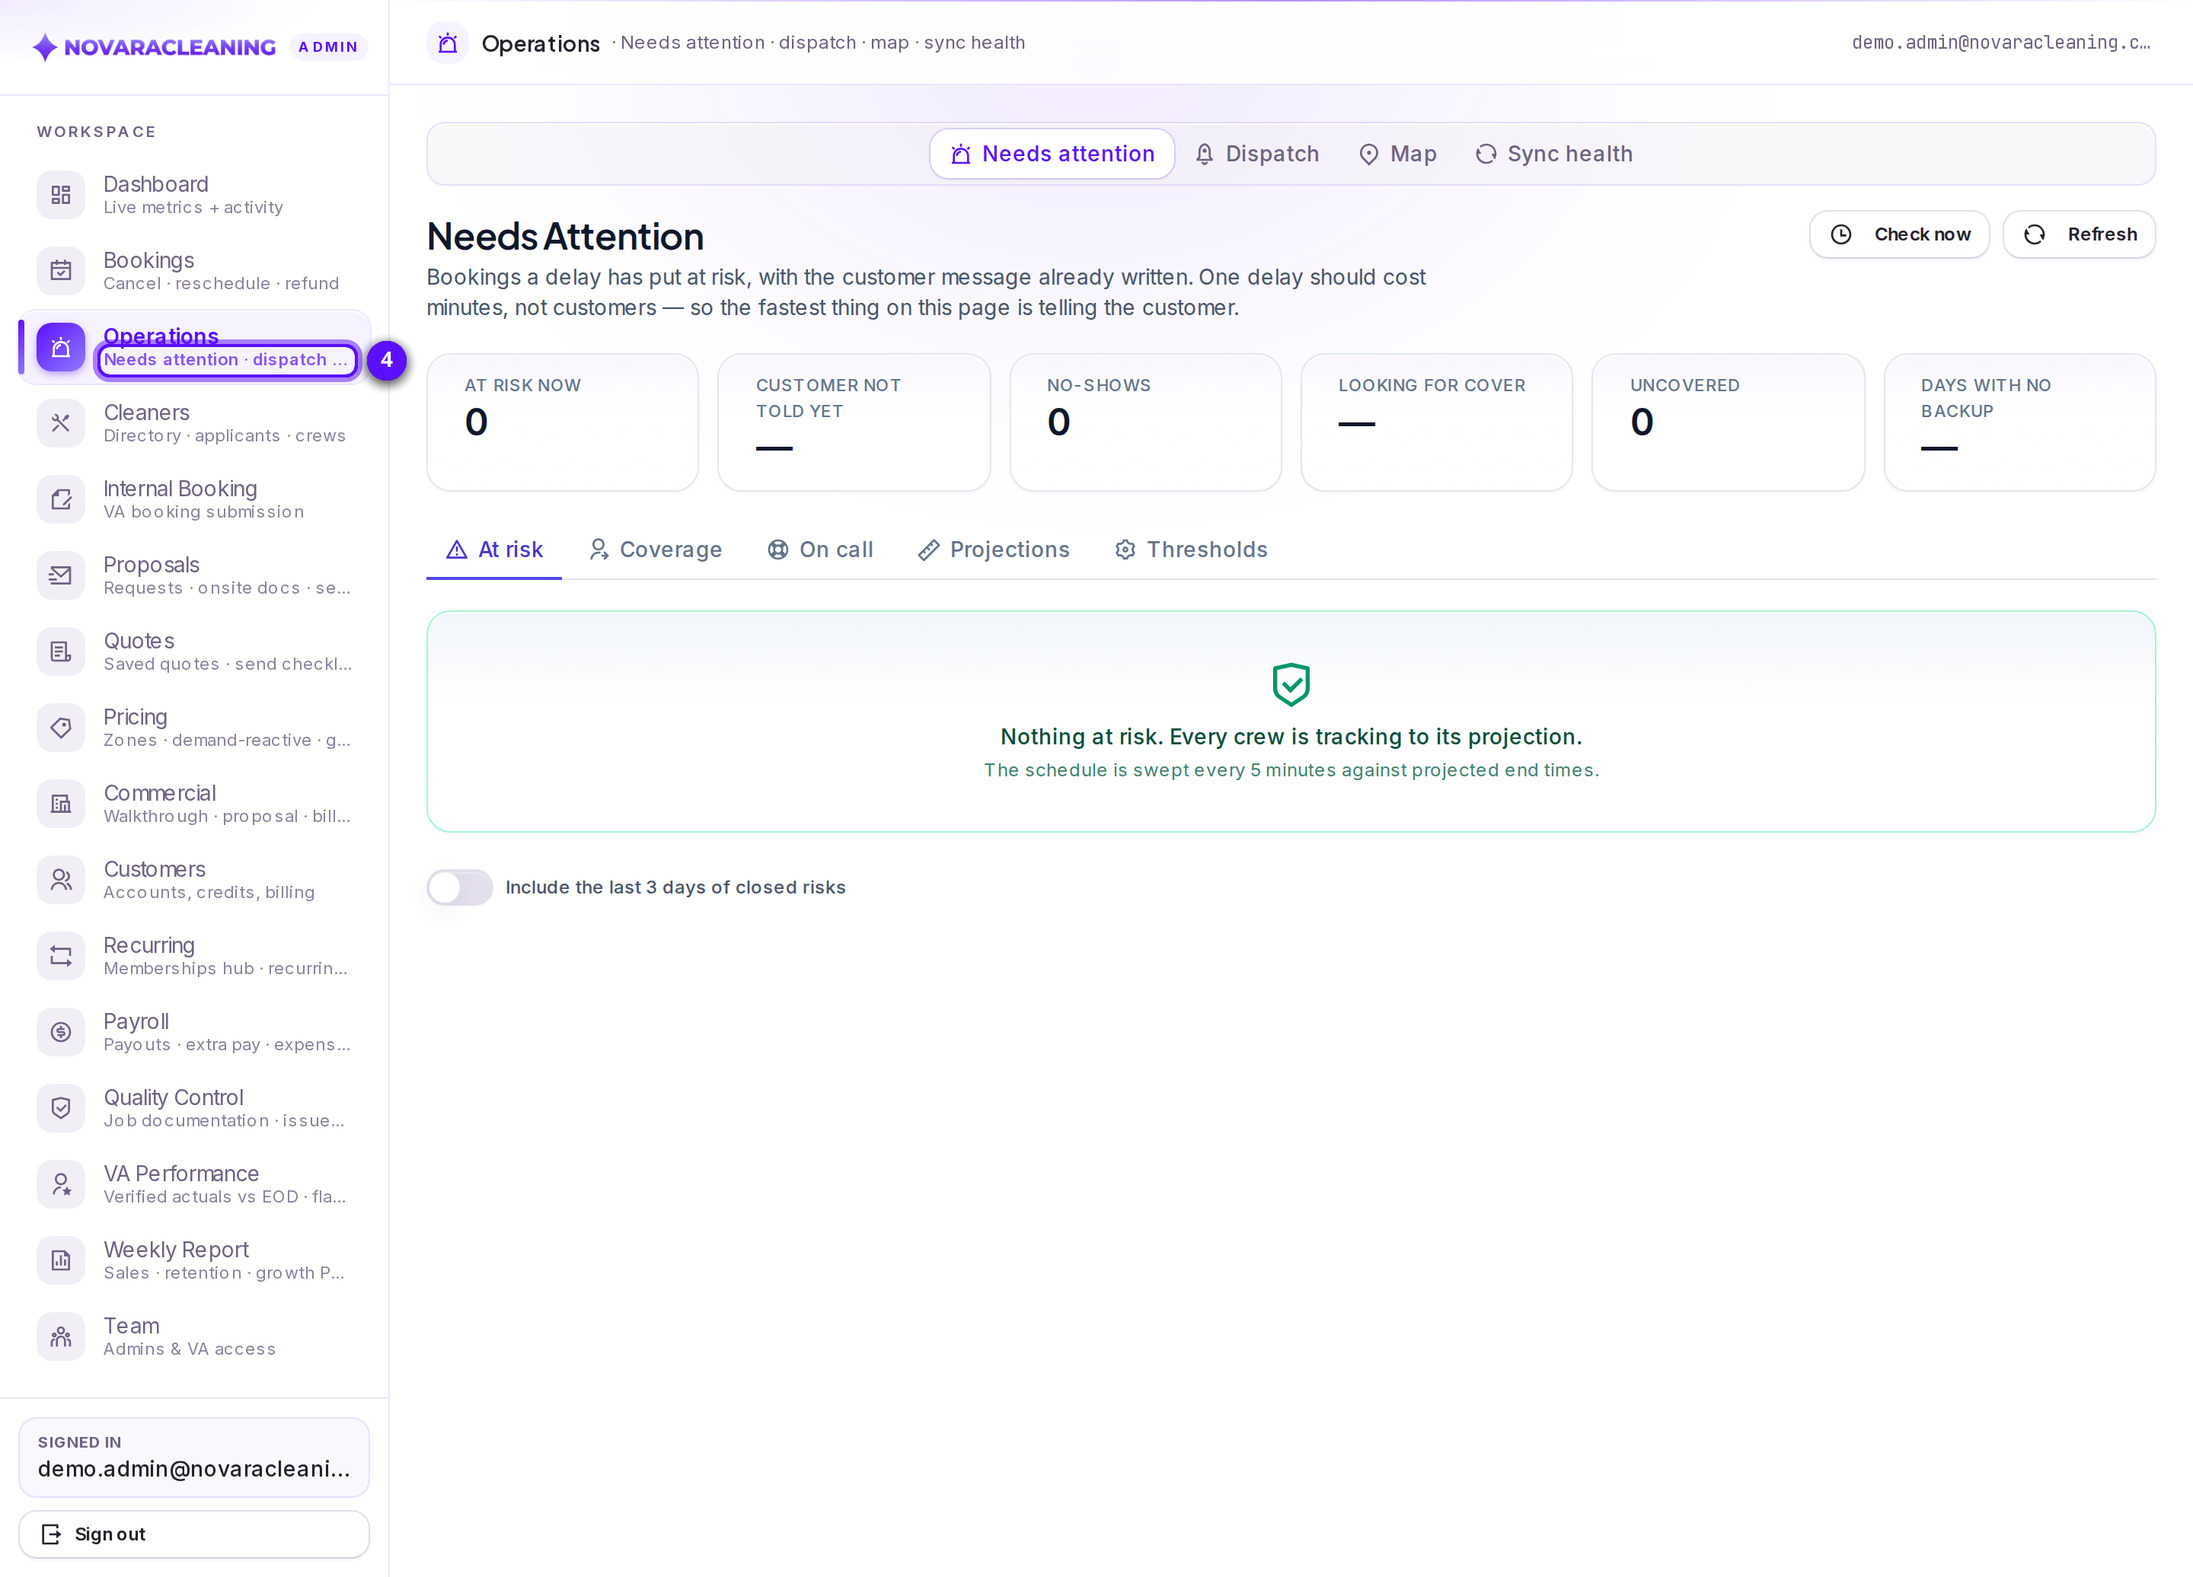
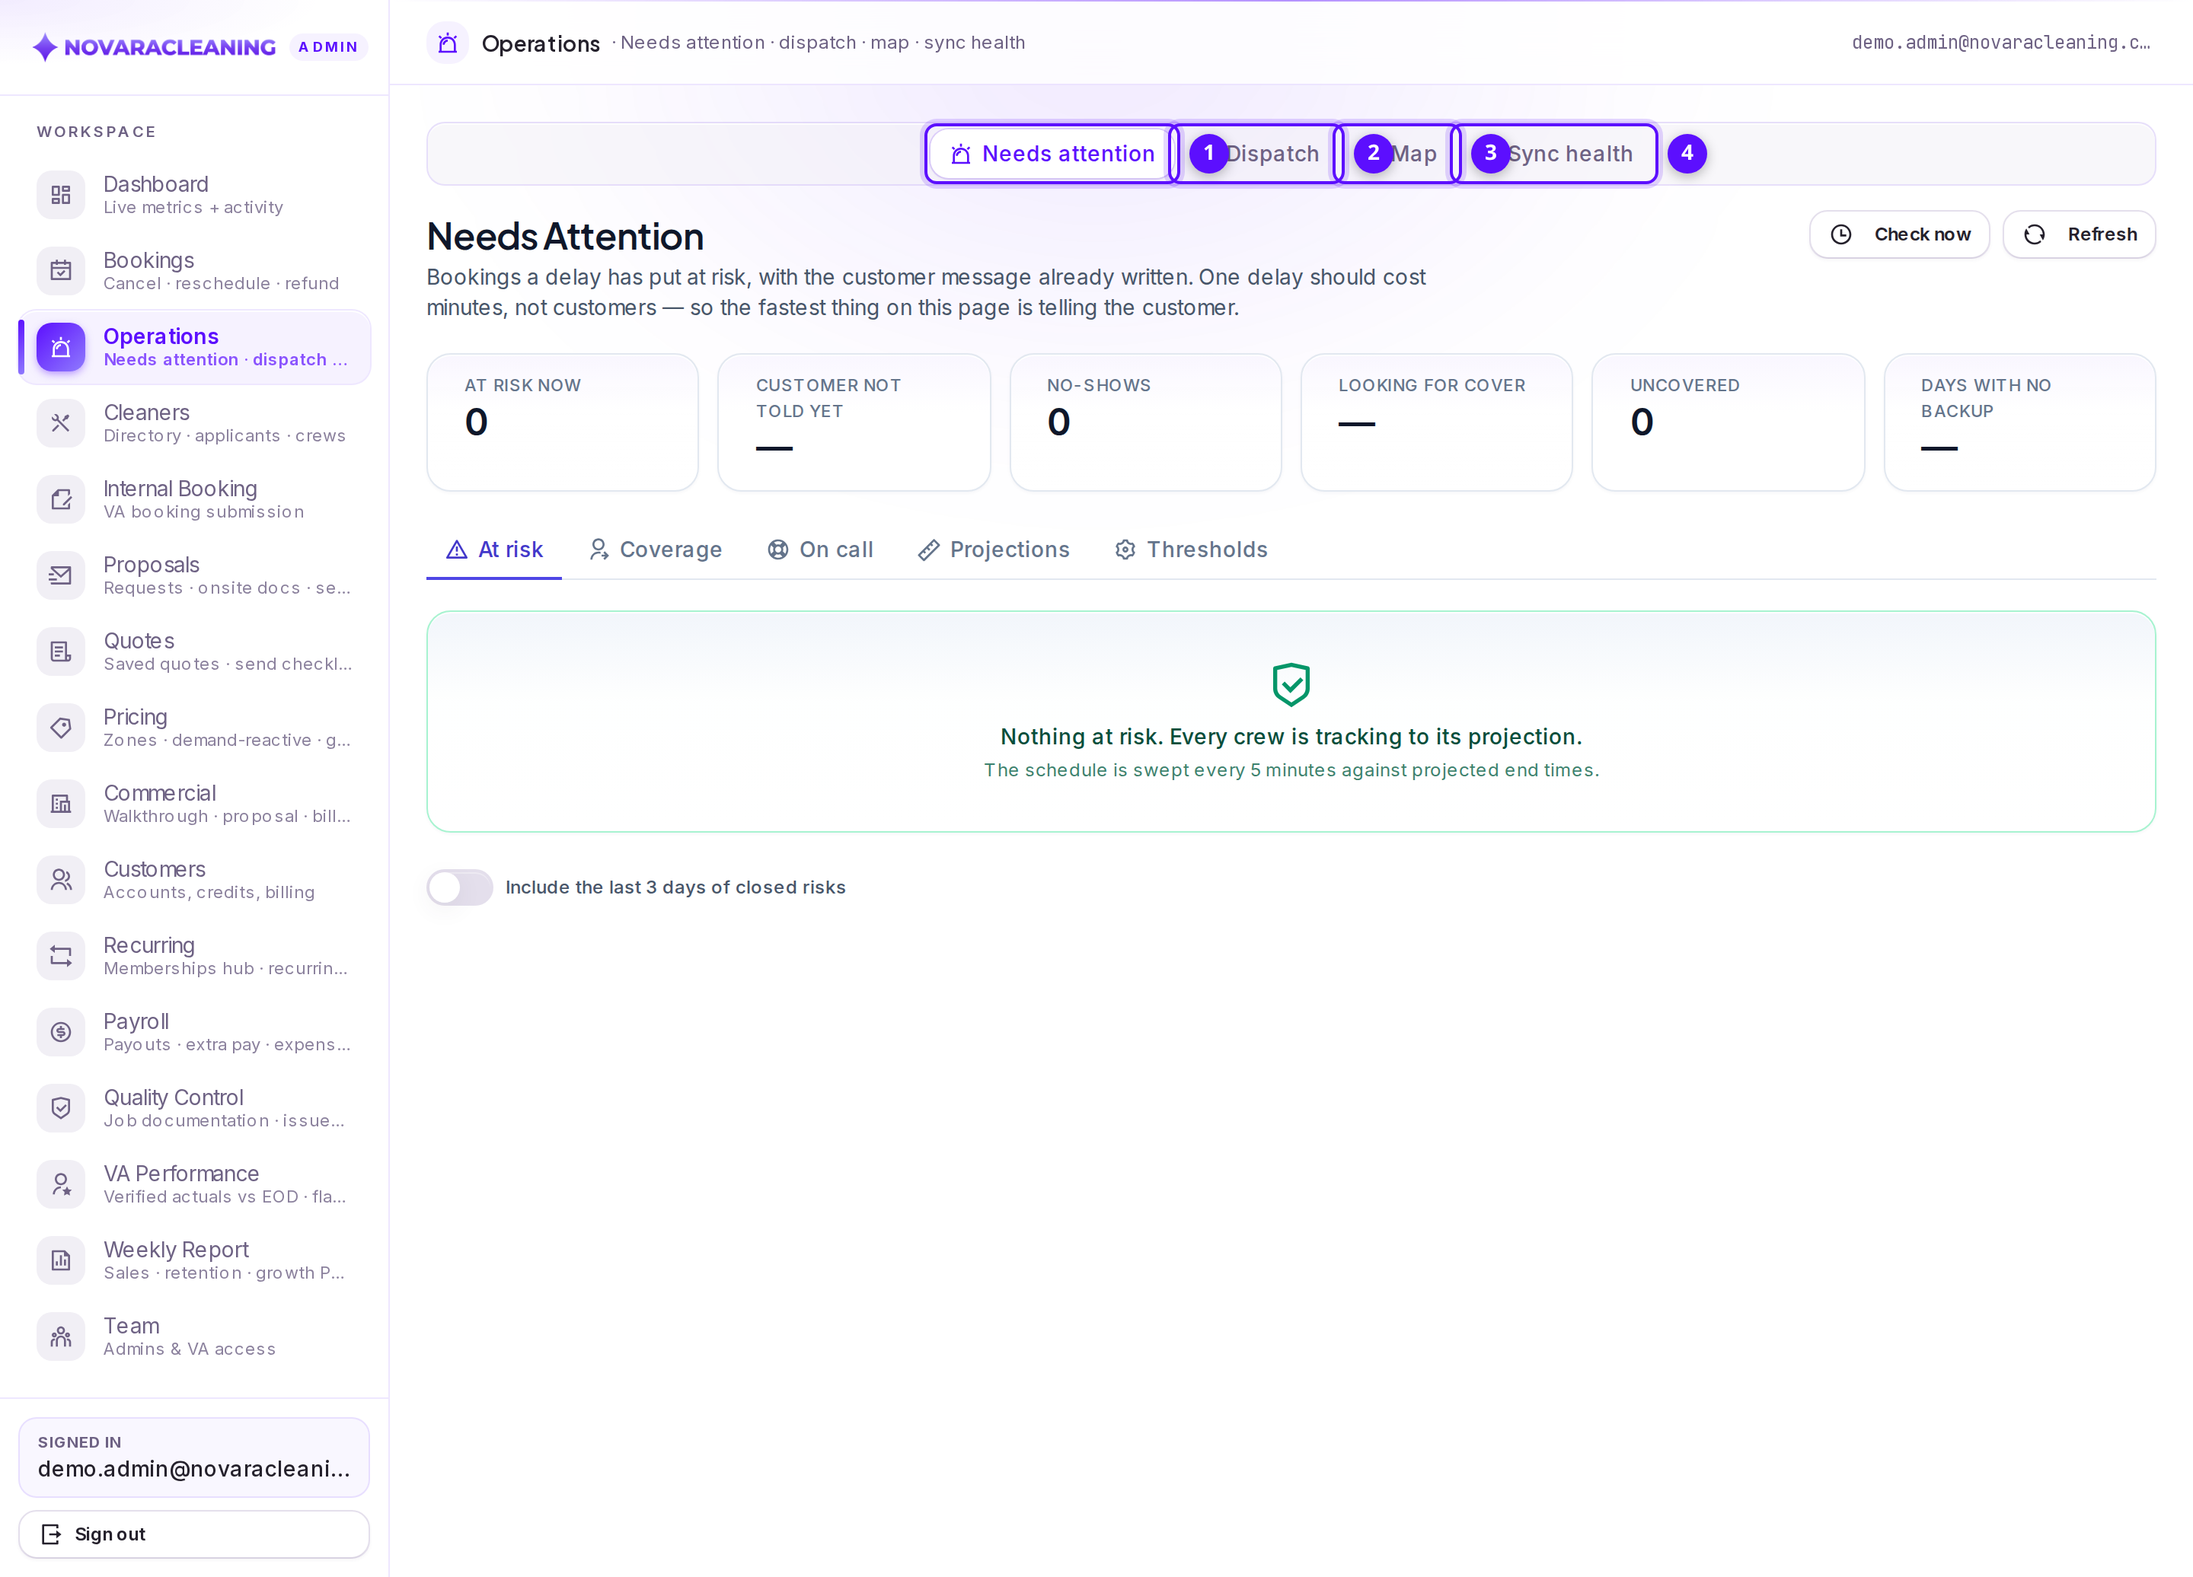
docs: fix callout targeting, partial-recapture manifest loss, and orphan images
Three problems the verification pass turned up:

- Text-matched callouts were landing on the sidebar, whose one-line
  descriptions repeat words from the screens they link to ("Zones ·
  demand-reactive" contains "active", so a search for the Active filter
  matched the Pricing nav item). Callouts are now scoped to the content area
  by default, and the tab rows on Operations and Quotes — whose names are
  repeated verbatim in the page header — are targeted positionally.

- A filtered capture run rewrote the whole manifest with only the shots it
  captured, so `docs:capture -- quotes` left every other guide referencing
  images the manifest no longer knew about. Results now merge into the
  existing manifest. docs:verify caught this, which is what it is for.

- docs:verify now also reports images on disk that belong to no shot, and one
  such orphan from a dropped shot is removed.

Changed region(s): [[0.4062, 0.0618, 0.7812, 0.1236], [0.0312, 0.2162, 0.1875, 0.2471]]

diff --git a/scripts/docs/capture/shots.ts b/scripts/docs/capture/shots.ts
@@ -36,6 +36,14 @@ export interface Shot {
    * reader wants the quote rail, not the whole booking form around it.
    */
   clipSelector?: string;
+  /**
+   * Container every callout is searched within unless it sets its own
+   * `within`. Defaults to `main`, which keeps text matching out of the
+   * sidebar — its one-line descriptions repeat words from the screens they
+   * link to ("Zones · demand-reactive" contains "active"), so an unscoped
+   * search for a filter button lands on the wrong element.
+   */
+  defaultWithin?: string | null;
   /** Viewport height override for tall screens. */
   height?: number;
 }
@@ -70,6 +78,9 @@ export const SHOTS: Shot[] = [
     caption: "The workspace sidebar. Which entries you see depends on your role.",
     url: "/admin/dashboard",
     waitForText: "Workspace",
+    // This shot is documenting the sidebar itself, so it must not be scoped
+    // to the content area like every other shot.
+    defaultWithin: "aside",
     callouts: [
       { text: "Workspace", label: "Section list" },
       { text: "Bookings", nth: 0, label: "Bookings" },
@@ -240,7 +251,7 @@ export const SHOTS: Shot[] = [
     callouts: [
       { text: "Contractors", nth: 0, label: "Section switch" },
       { selector: "input[placeholder*='Search by name']", label: "Search" },
-      { text: "Active", nth: 0, label: "Status filters" },
+      { text: "Active", exact: true, nth: 0, label: "Status filters" },
       { text: "+ Add cleaner", label: "Add a contractor" },
     ],
     fullPage: true,
@@ -265,11 +276,13 @@ export const SHOTS: Shot[] = [
     caption: "Operations pulls four screens into one: at-risk work, dispatch, map and sync.",
     url: "/admin/operations",
     waitForText: "Needs attention",
+    // The page header repeats all four tab names in its subtitle, so match on
+    // the tab row itself rather than on the words.
     callouts: [
-      { text: "Needs attention", nth: 0, label: "Needs attention" },
-      { text: "Dispatch", nth: 0, label: "Dispatch" },
-      { text: "Map", nth: 0, label: "Map" },
-      { text: "Sync health", nth: 0, label: "Sync health" },
+      { selector: "[role='tab']", nth: 0, label: "Needs attention — jobs at risk right now" },
+      { selector: "[role='tab']", nth: 1, label: "Dispatch — getting cleaners onto jobs" },
+      { selector: "[role='tab']", nth: 2, label: "Map — coverage and demand" },
+      { selector: "[role='tab']", nth: 3, label: "Sync health — why a record might be missing" },
     ],
     fullPage: true,
   },
@@ -342,9 +355,10 @@ export const SHOTS: Shot[] = [
     caption: "Saved quotes and website quote requests.",
     url: "/admin/quotes",
     waitForText: "Quotes",
+    // The header breadcrumb repeats the tab names, so target the tab row.
     callouts: [
-      { text: "Saved quotes", label: "Quotes saved from internal booking" },
-      { text: "Website requests", label: "Requests from the website" },
+      { selector: "[role='tab']", nth: 0, label: "Quotes saved from internal booking" },
+      { selector: "[role='tab']", nth: 1, label: "Requests from the website" },
       { text: "New quote / book", label: "Start a new quote" },
     ],
     fullPage: true,

diff --git a/scripts/docs/capture-screenshots.ts b/scripts/docs/capture-screenshots.ts
@@ -20,7 +20,7 @@
 // when, and which callouts could not be found. Missing callouts are a signal
 // that the screen changed and the matching guide step needs a second look.
 
-import { mkdirSync, writeFileSync } from "node:fs";
+import { existsSync, mkdirSync, readFileSync, writeFileSync } from "node:fs";
 import { resolve } from "node:path";
 import { chromium, type Browser, type Page } from "playwright";
 
@@ -130,9 +130,17 @@ async function capture(browser: Browser, shot: Shot) {
           .boundingBox()
           .catch(() => null)
       : null;
+    // Scope text matching to the content area unless a callout says
+    // otherwise, so a filter button isn't matched against sidebar copy.
+    const scope = shot.defaultWithin === null ? undefined : (shot.defaultWithin ?? "main");
+    const callouts = shot.callouts.map((c) => ({
+      ...c,
+      within: c.within ?? (c.selector ? undefined : scope),
+    }));
+
     const { drawn, missing } = await drawCallouts(
       page,
-      shot.callouts,
+      callouts,
       cropBounds ? { x: cropBounds.x, width: cropBounds.width } : undefined,
     );
     if (missing.length) {
@@ -215,13 +223,33 @@ async function main() {
   }
   await browser.close();
 
+  // Merge into the existing manifest rather than replacing it. A filtered run
+  // ("npm run docs:capture -- bookings") must not erase the entries for every
+  // other shot — that would leave the guides referencing images the manifest
+  // no longer knows about.
+  const previous: Record<string, unknown>[] = existsSync(MANIFEST)
+    ? (JSON.parse(readFileSync(MANIFEST, "utf8")).shots ?? [])
+    : [];
+  const merged = new Map<string, unknown>();
+  for (const shot of previous) merged.set(String((shot as { id: string }).id), shot);
+  for (const shot of results) merged.set(shot.id, shot);
+
+  // Keep manifest order stable and matched to the shot definitions so diffs
+  // stay readable across runs.
+  const order = new Map(SHOTS.map((s, i) => [s.id, i]));
+  const manifestShots = [...merged.values()].sort(
+    (a, b) =>
+      (order.get(String((a as { id: string }).id)) ?? 999) -
+      (order.get(String((b as { id: string }).id)) ?? 999),
+  );
+
   const manifest = {
     _readme:
       "GENERATED by npm run docs:capture. Captured against the real admin components with invented data only — the production database is never contacted. Recapture whenever a guide is re-verified.",
     generatedAt: new Date().toISOString(),
     baseUrl: BASE_URL,
     viewport: VIEWPORT,
-    shots: results,
+    shots: manifestShots,
   };
   writeFileSync(MANIFEST, `${JSON.stringify(manifest, null, 2)}\n`);
 

diff --git a/scripts/docs/capture/demo-data.ts b/scripts/docs/capture/demo-data.ts
@@ -721,6 +721,71 @@ export const vaOnboarding = [
   },
 ];
 
+// ─── Saved quotes ──────────────────────────────────────────────────────────
+
+export const vaQuotes = [
+  {
+    id: "vq000000-0000-4000-8000-000000000001",
+    first_name: "Nina",
+    last_name: "Okonkwo",
+    email: "nina.okonkwo@example.test",
+    phone: "+15555550147",
+    address: "82 Bellhaven Row",
+    city: "Silver Spring",
+    state: "MD",
+    zip_code: "20910",
+    service_type: "standard",
+    home_size_id: "1501_2000",
+    home_size: "1,501 – 2,000 sq ft",
+    base_price_cents: 29875,
+    estimate_cents: 29875,
+    quoted_price_cents: 29875,
+    preferred_date: iso(6),
+    status: "draft",
+    csr_name: "Ops Assistant",
+    team_notes: "Wants a Saturday if we can do it. Two cats.",
+    locked_until: ts(1),
+    created_at: ts(-1),
+  },
+  {
+    id: "vq000000-0000-4000-8000-000000000002",
+    first_name: "Bradley",
+    last_name: "Nwosu",
+    email: "bradley.nwosu@example.test",
+    phone: "+15555550158",
+    address: "1907 Kestrel Bend",
+    city: "Frederick",
+    state: "MD",
+    zip_code: "21701",
+    service_type: "deep",
+    home_size_id: "2001_2500",
+    home_size: "2,001 – 2,500 sq ft",
+    base_price_cents: 47138,
+    estimate_cents: 47138,
+    quoted_price_cents: 47138,
+    preferred_date: iso(9),
+    status: "converted",
+    csr_name: "Sales Assistant",
+    team_notes: "",
+    locked_until: ts(-2),
+    created_at: ts(-4),
+  },
+];
+
+export const customQuotes = [
+  {
+    id: "cq000000-0000-4000-8000-000000000001",
+    name: "Odette Laurent",
+    email: "odette.laurent@example.test",
+    phone: "+15555550169",
+    address: "440 Windmere Close, Rockville, MD 20850",
+    square_feet: 5400,
+    status: "pending",
+    notes: "Large house, asked about every-other-week.",
+    created_at: ts(-2),
+  },
+];
+
 // ─── Commercial / proposals ────────────────────────────────────────────────
 
 export const businessAccounts = [

diff --git a/scripts/docs/verify-docs.ts b/scripts/docs/verify-docs.ts
@@ -143,6 +143,18 @@ function main() {
     }
   }
 
+  // Images on disk that no longer belong to any shot — left behind when a
+  // shot is renamed or dropped. Harmless but they accumulate, and a stale
+  // image sitting next to current ones invites someone to use it.
+  const knownFiles = new Set(manifest.shots.map((s) => s.file).filter(Boolean) as string[]);
+  if (existsSync(SHOTS_DIR)) {
+    for (const file of readdirSync(SHOTS_DIR).filter((f) => f.endsWith(".png"))) {
+      if (!knownFiles.has(file)) {
+        warnings.push(`${file} is on disk but belongs to no shot — delete it or add the shot back`);
+      }
+    }
+  }
+
   for (const shot of manifest.shots) {
     if (!slugs.has(shot.doc)) {
       problems.push(`screenshot "${shot.id}" is filed against guide "${shot.doc}", which does not exist`);

diff --git a/scripts/docs/capture/supabase-mock.ts b/scripts/docs/capture/supabase-mock.ts
@@ -223,6 +223,8 @@ const TABLES: Record<string, unknown[]> = {
   business_accounts: demo.businessAccounts,
   va_onboarding: demo.vaOnboarding,
   leads: [],
+  va_quotes: demo.vaQuotes,
+  custom_quotes: demo.customQuotes,
   job_assignments: [],
   availability: [],
   availability_slots: [],

diff --git a/docs/admin-workspace/pricing.md b/docs/admin-workspace/pricing.md
@@ -58,15 +58,15 @@ needs a custom quote, and you should flag it rather than guess.
 
 :::drift Two base price tables are on file, and the system knows it
 The pricing configuration currently holds **two** base price tables — the "Training Guide"
-table (the one above) and an older "later sqft model" with different, generally lower
-numbers. The system is set to quote from the Training Guide table, and it is flagged as
-**not reconciled**, which is why the Pricing screen shows a banner about it.
+table (the one published in this guide) and an older "later sqft model" with different,
+generally lower numbers. The system is set to quote from the Training Guide table, and it is
+flagged as **not reconciled**, which is why the Pricing screen shows a banner about it.
 
 Nothing is broken and nothing is being mis-quoted: quotes come from the Training Guide
 table. But the discrepancy is real, it is unresolved, and an admin needs to confirm which
 table is authoritative and clear the flag. Until then, if you see a price in an older
-document that doesn't match the table above, that is probably why. **The table above is
-what customers are actually charged.**
+document that doesn't match, that is probably why. **The Training Guide table is what
+customers are actually charged.**
 :::
 
 ### Condition
@@ -311,9 +311,10 @@ match in two places:
 - **Weekly at 3,001 sq ft and above** — the live configuration says **not offered**; the
   older list still carries prices ($899, $1,039, $1,159, $1,279).
 
-The table above is the live configuration, which is what the quoting screen actually uses.
-The older list is a fallback that only comes into play if the live configuration can't be
-read. Someone should reconcile the two; until then, quote the table above.
+The membership rates published in this guide are the live configuration, which is what the
+quoting screen actually uses. The older list is a fallback that only comes into play if the
+live configuration can't be read. Someone should reconcile the two; until then, quote the
+live figures.
 :::
 
 ## How far you can move a price

diff --git a/docs/admin-workspace/recurring.md b/docs/admin-workspace/recurring.md
@@ -76,9 +76,10 @@ Two differences, both real:
 - **Weekly at 3,001 sq ft and above** — the live configuration says **not offered**; the
   older list still carries prices.
 
-The table above is the live configuration, which is what quotes use. If you try to sell a
-weekly plan on a home over 3,000 sq ft, the booking screen will refuse with *"This plan
-frequency is not offered for this home size — quote a custom plan."* That is not a bug.
+The rates published in this guide are the live configuration, which is what quotes use. If
+you try to sell a weekly plan on a home over 3,000 sq ft, the booking screen will refuse with
+*"This plan frequency is not offered for this home size — quote a custom plan."* That is not
+a bug.
 :::
 
 ## Working a member
